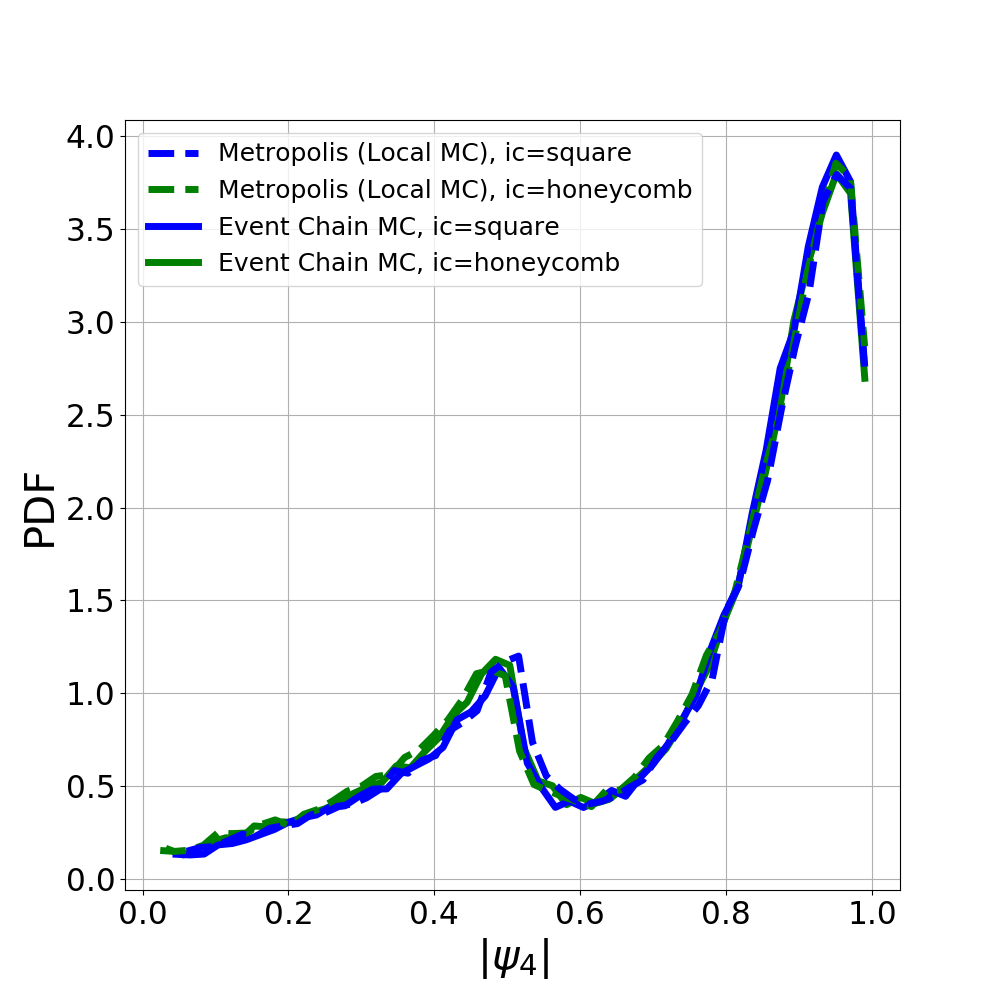
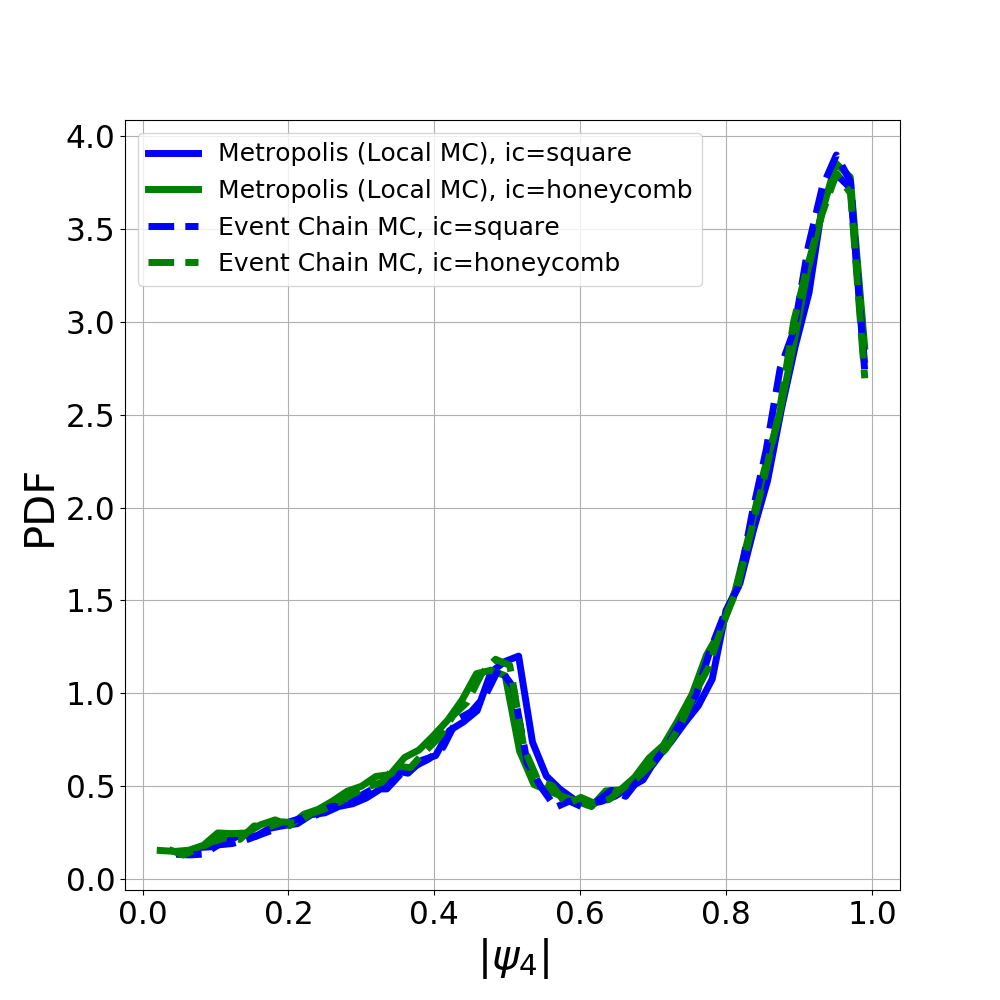
Adapted dotted and full line convention of Bernard et al ECMC for hard sphere paper

diff --git a/create_all_graphs.py b/create_all_graphs.py
@@ -977,7 +977,7 @@ def bench_mark():
         return alg_lbl + ', ic=' + ic_lbl
 
     def plot_str(algorithm, ic):
-        s = '-' if algorithm == 'ECMC' else '--'
+        s = '--' if algorithm == 'ECMC' else '-'
         s += 'b' if ic == 'AF_square' else 'g'
         return s
 
@@ -986,7 +986,6 @@ def bench_mark():
     plt.rcParams.update({'figure.figsize': (10, 10), 'legend.fontsize': size * 0.6})
     plt.figure()
     default_plt_kwargs['linewidth'] = 5
-    zorder = 100
     for algorithm in ['LMC', 'ECMC']:
         for initial_conditions in ['AF_square', 'AF_triangle']:
             fname = join(
@@ -997,8 +996,7 @@ def bench_mark():
             psi_avg = np.abs(psi_avg)
             elapsed_hours = 24 * 2  # (len(psi_avg) - 1) / 2.0  # in hours
             plt.plot(reals * elapsed_hours / reals[-1], psi_avg, plot_str(algorithm, initial_conditions),
-                     label=label(algorithm, initial_conditions), **default_plt_kwargs, zorder=zorder)
-            zorder -= 1
+                     label=label(algorithm, initial_conditions), **default_plt_kwargs)
     plt.legend(loc=1)
     plt.xlabel('elapsed real time [h]')
     plt.ylabel('$|\\overline{\\psi_{4}}|$')
@@ -1014,14 +1012,13 @@ def bench_mark():
             hists = []
             op_dir = op_path(rhoH, specif_op='psi_14', **kwargs)
             files, reals = sort_prefix(op_dir, 'vec_')
-            for k in range(1):
+            for k in range(60):
                 psi = np.loadtxt(join(op_dir, files[k]), dtype=complex)
                 hist, bin_edges = np.histogram(np.abs(psi), 50, density=True)
                 hists.append(hist)
             hist = np.mean(hists, 0)
             plt.plot((bin_edges[:-1] + bin_edges[1:]) / 2, hist, plot_str(algorithm, initial_conditions),
-                     label=label(algorithm, initial_conditions), **default_plt_kwargs, zorder=zorder)
-            zorder -= 1
+                     label=label(algorithm, initial_conditions), **default_plt_kwargs)
     plt.legend(loc=2)
     plt.ylabel('PDF')
     plt.xlabel('$|\\psi_{4}|$')
@@ -1044,8 +1041,7 @@ def bench_mark():
                 hists.append(hist)
             hist = np.mean(hists, 0)
             plt.plot((bin_edges[:-1] + bin_edges[1:]) / 2, hist, plot_str(algorithm, initial_conditions),
-                     label=label(algorithm, initial_conditions), zorder=zorder, **default_plt_kwargs)
-            zorder -= 1
+                     label=label(algorithm, initial_conditions), **default_plt_kwargs)
     plt.legend(loc=9)
     plt.ylabel('PDF')
     plt.xlabel('normalized sphere height')
